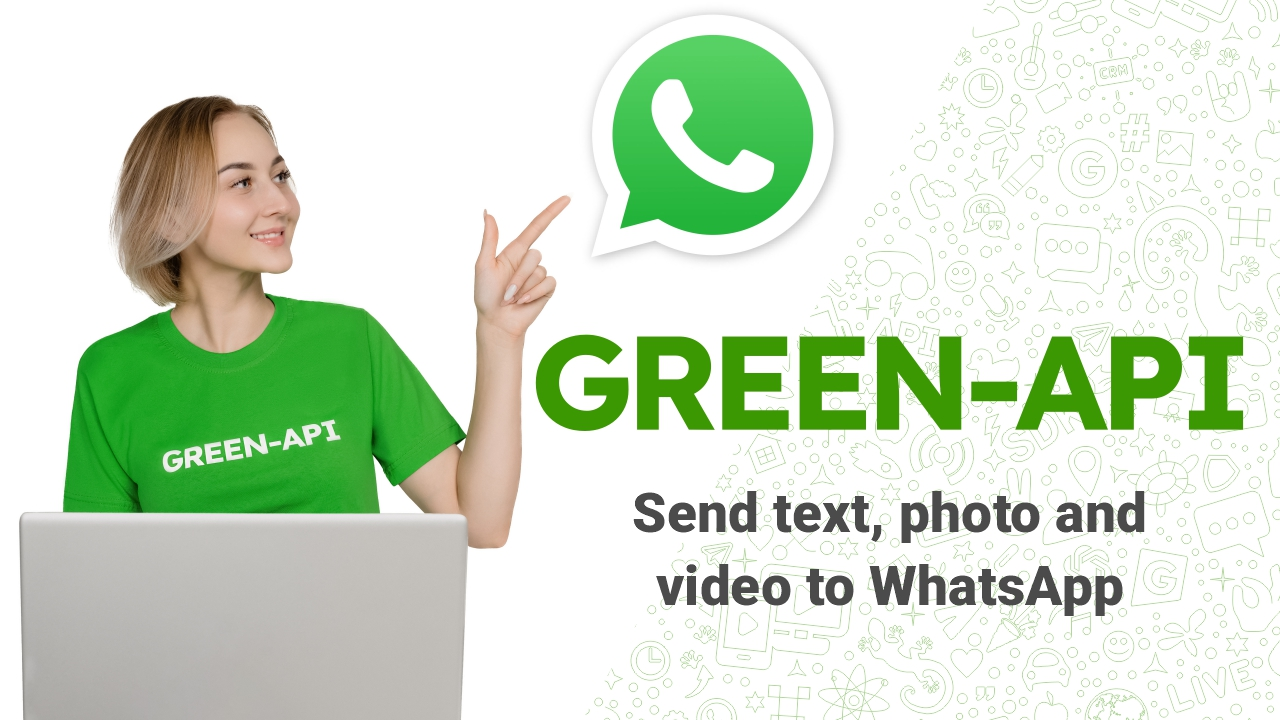
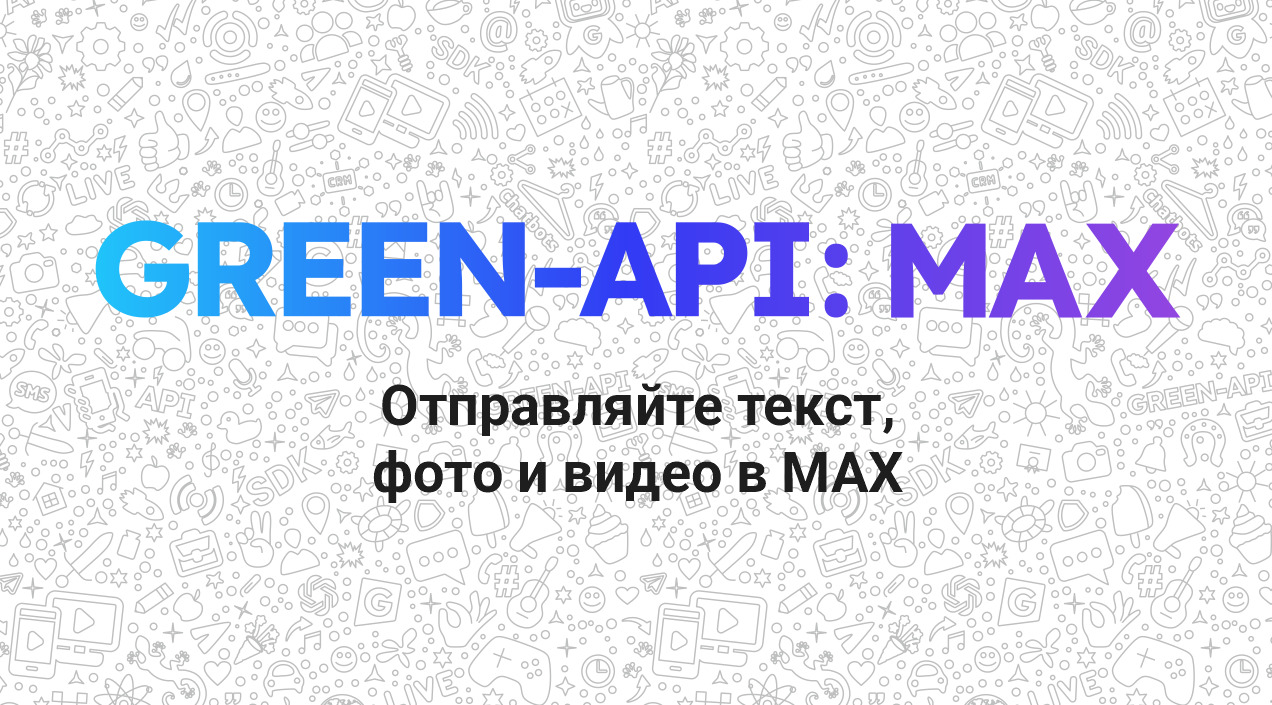
Assets changes

diff --git a/main.go b/main.go
@@ -38,7 +38,7 @@ func main() {
 		OpenAIApiKey:     openaiToken,
 		Model:            gptbot.ModelGPT4o,
 		MaxHistoryLength: 10,
-		SystemMessage:    "You are a helpful WhatsApp assistant.",
+		SystemMessage:    "You are a helpful Max assistant.",
 	}
 	gptHelper := gptbot.NewMaxGptBot(gptConfig)
 

diff --git a/README.md b/README.md
@@ -2,7 +2,7 @@
 
 - [Documentation in English](README_EN.md).
 
-Пример чатбота написанного на Golang с использованием API сервиса для Whatsapp [green-api.com](https://green-api.com/).
+Пример чатбота написанного на Golang с использованием API сервиса для Max [green-api.com](https://green-api.com/).
 Чатбот наглядно демонстрирует использование API для отправки текстовых сообщений, файлов, картинок, локаций, контактов, а также интегрирует OpenAI GPT для бесед с ИИ.
 
 
@@ -27,7 +27,7 @@
 ```
 Для корректной работы, ответом на введеный запрос должна быть версия Go не ниже:
 ```
-    go version go 1.20
+    go version go 1.24
 ```
 
 Скачайте и разархивируйте [zip-архив](https://github.com/green-api/max-demo-chatbot-golang) проекта или клонируйте его командой системы контроля версий:
@@ -45,11 +45,11 @@ git clone https://github.com/green-api/max-demo-chatbot-golang
 
 Откройте проект в любой IDE.
 
-Среда для запуска чатбота готова, теперь необходимо произвести настройку и запустить чатбот на вашем аккаунте Whatsapp.
+Среда для запуска чатбота готова, теперь необходимо произвести настройку и запустить чатбот на вашем аккаунте Max.
 
 ## Запуск чатбота
 
-Для того, чтобы настроить чатбот на своем аккаунте Whatsapp, Вам необходимо перейти в [личный кабинет](https://console.green-api.com/) и зарегистрироваться. Для новых пользователей предоставлена [инструкция](https://green-api.com/docs/before-start/) для настройки аккаунта и получения необходимых для работы чатбота параметров, а именно:
+Для того, чтобы настроить чатбот на своем аккаунте Max, Вам необходимо перейти в [личный кабинет](https://console.green-api.com/) и зарегистрироваться. Для новых пользователей предоставлена [инструкция](https://green-api.com/docs/before-start/) для настройки аккаунта и получения необходимых для работы чатбота параметров, а именно:
 ```
     idInstance
     apiTokenInstance
@@ -77,7 +77,6 @@ go run main.go
 Все настройки по получению уведомлений выключены по умолчанию, чатбот включит следующие настройки:
 ```
     "incomingWebhook": "yes",
-    "pollMessageWebhook": "yes",
     "markIncomingMessagesReaded": "yes"
 ```
 которые отвечают за получение уведомлений о входящих сообщениях и опросах.
@@ -118,7 +117,7 @@ case "2":
 
 ## Использование
 
-Если предыдущие шаги были выполнены, то на вашем аккаунте Whatsapp должен работать чатбот. Важно помнить, что пользователь должен быть авторизован в [личном кабинете](https://console.green-api.com/).
+Если предыдущие шаги были выполнены, то на вашем аккаунте Max должен работать чатбот. Важно помнить, что пользователь должен быть авторизован в [личном кабинете](https://console.green-api.com/).
 
 Теперь вы можете отправлять сообщения чатботу!
 
@@ -135,8 +134,8 @@ case "2":
 1. Текстовое сообщение 📩
 2. Файл 📋
 3. Картинка 🖼
-4. Контакт 📱
-5. Геолокация 🌎
+4. Аудио 🎵
+5. 5. Видео 📽
 6. ...
 9. 🔥 Разговор с ChatGPT 🤖
 
@@ -194,7 +193,7 @@ func main() {
        OpenAIApiKey:     openaiToken,
        Model:            gptbot.ModelGPT4o,
        MaxHistoryLength: 10,
-       SystemMessage:    "You are a helpful WhatsApp assistant.",
+       SystemMessage:    "You are a helpful Max assistant.",
     }
     gptHelper := gptbot.NewMaxGptBot(gptConfig)
     registry.RegisterGptHelper(gptHelper)
@@ -237,14 +236,14 @@ func main() {
 ```go
     message.AnswerWithText(util.GetString([]string{"select_language"}))
 ```
-Однако другие методы отправки можно вызвать напрямую из библиотеки [whatsapp-api-client-golang](https://github.com/green-api/whatsapp-api-client-golang). Как, например, при получении аватара:
+Однако другие методы отправки можно вызвать напрямую из библиотеки [Max-api-client-golang](https://github.com/green-api/Max-api-client-golang). Как, например, при получении аватара:
 ```go
     message.GreenAPI.Methods().Service().GetAvatar(chatId)
 ```
 
 ## Функциональность GPT
 
-Чатбот интегрируется с моделями GPT от OpenAI с помощью библиотеки [whatsapp-chatgpt-go](https://github.com/green-api/max-chatgpt-go). Это позволяет боту вести интеллектуальные беседы с пользователями.
+Чатбот интегрируется с моделями GPT от OpenAI с помощью библиотеки [Max-chatgpt-go](https://github.com/green-api/max-chatgpt-go). Это позволяет боту вести интеллектуальные беседы с пользователями.
 
 ### Как это работает
 

diff --git a/README_EN.md b/README_EN.md
@@ -2,7 +2,7 @@
 
 - [Документация на русском](README_RU.md).
 
-An example of a chatbot written in Go using the API service for Whatsapp [green-api.com](https://green-api.com/en/).
+An example of a chatbot written in Go using the API service for Max [green-api.com](https://green-api.com/en/).
 The chatbot clearly demonstrates the use of the API to send text messages, files, pictures, locations, contacts, and integrates OpenAI GPT for intelligent conversations.
 
 
@@ -27,7 +27,7 @@ After completion, you need to check whether the environment was deployed correct
 ```
 To work correctly, the response to the entered request must be a version of Go no lower than:
 ```
-    go version go 1.19
+    go version go 1.24
 ```
 
 Download and unzip the [zip-archive](https://github.com/green-api/max-demo-chatbot-golang) of the project or clone it with the version control system command:
@@ -44,11 +44,11 @@ Download and install the Git version control system appropriate for your operati
 
 Open the project in any IDE.
 
-The environment for launching the chatbot is ready, now you need to configure and launch the chatbot on your Whatsapp account.
+The environment for launching the chatbot is ready, now you need to configure and launch the chatbot on your Max account.
 
 ## Launch a chatbot
 
-In order to set up a chatbot on your Whatsapp account, you need to go to [your personal account](https://console.greenapi.com/) and register. For new users, [instructions](https://greenapi.com/en/docs/before-start/) are provided for setting up an account and obtaining the parameters necessary for the chatbot to work, namely:
+In order to set up a chatbot on your Max account, you need to go to [your personal account](https://console.greenapi.com/) and register. For new users, [instructions](https://greenapi.com/en/docs/before-start/) are provided for setting up an account and obtaining the parameters necessary for the chatbot to work, namely:
 ```
     idInstance
     apiTokenInstance
@@ -76,10 +76,8 @@ The library [max-chatbot-golang](https://github.com/green-api/max-chatbot-golang
 All settings for receiving notifications are disabled by default; the chatbot will enable the following settings:
 ```
      "incomingWebhook": "yes",
-     "pollMessageWebhook": "yes",
      "markIncomingMessagesReaded": "yes"
 ```
-which are responsible for receiving notifications about incoming messages and polls.
 
 The process of changing settings takes several minutes, during which time the instance will be unavailable. Messages sent to the chatbot during this time will not be processed.
 
@@ -118,7 +116,7 @@ All changes must be saved, after which you can launch the chatbot. To launch the
 
 ## Usage
 
-If the previous steps have been completed, then the chatbot should be working on your Whatsapp account. It is important to remember that the user must be authorized in [personal account](https://console.green-api.com/).
+If the previous steps have been completed, then the chatbot should be working on your Max account. It is important to remember that the user must be authorized in [personal account](https://console.green-api.com/).
 
 Now you can send messages to the chatbot!
 
@@ -132,11 +130,13 @@ Answer 1 or 2 to select the language for further communication. After you send 1
 ```
 Welcome to GREEN-API chatbot, user! GREEN-API provides the following types of data sending. Select a number from the list to check how the sending method works
 
+1. Text message 📩\n2. File 📋\n3. Image 🖼\n4. Audio 🎵\n5. Video
+
 1. Text message 📩
 2. File 📋
-3. Picture 🖼
-4. Contact 📱
-5. Geolocation 🌎
+3. Image 🖼
+4. Audio 🎵
+5. Video 📽
 6. ...
 9. 🔥 Conversation with ChatGPT 🤖
 
@@ -194,7 +194,7 @@ func main() {
        OpenAIApiKey:     openaiToken,
        Model:            gptbot.ModelGPT4o,
        MaxHistoryLength: 10,
-       SystemMessage:    "You are a helpful WhatsApp assistant.",
+       SystemMessage:    "You are a helpful Max assistant.",
     }
     gptHelper := gptbot.NewMaxGptBot(gptConfig)
     registry.RegisterGptHelper(gptHelper)
@@ -237,14 +237,14 @@ For example, a chatbot automatically sends a message to the contact from whom it
 ```go
      message.AnswerWithText(util.GetString([]string{"select_language"}))
 ```
-However, other send methods can be called directly from the [whatsapp-api-client-golang](https://github.com/green-api/whatsapp-api-client-golang) library. Like, for example, when receiving an avatar:
+However, other send methods can be called directly from the [Max-api-client-golang](https://github.com/green-api/Max-api-client-golang) library. Like, for example, when receiving an avatar:
 ```go
      message.GreenAPI.Methods().Service().GetAvatar(chatId)
 ```
 
 ## GPT Functionality
 
-The chatbot integrates with OpenAI's GPT models using the [whatsapp-chatgpt-go](https://github.com/green-api/max-chatgpt-go) library. This enables the bot to have intelligent conversations with users.
+The chatbot integrates with OpenAI's GPT models using the [Max-chatgpt-go](https://github.com/green-api/max-chatgpt-go) library. This enables the bot to have intelligent conversations with users.
 
 ### How it works
 
